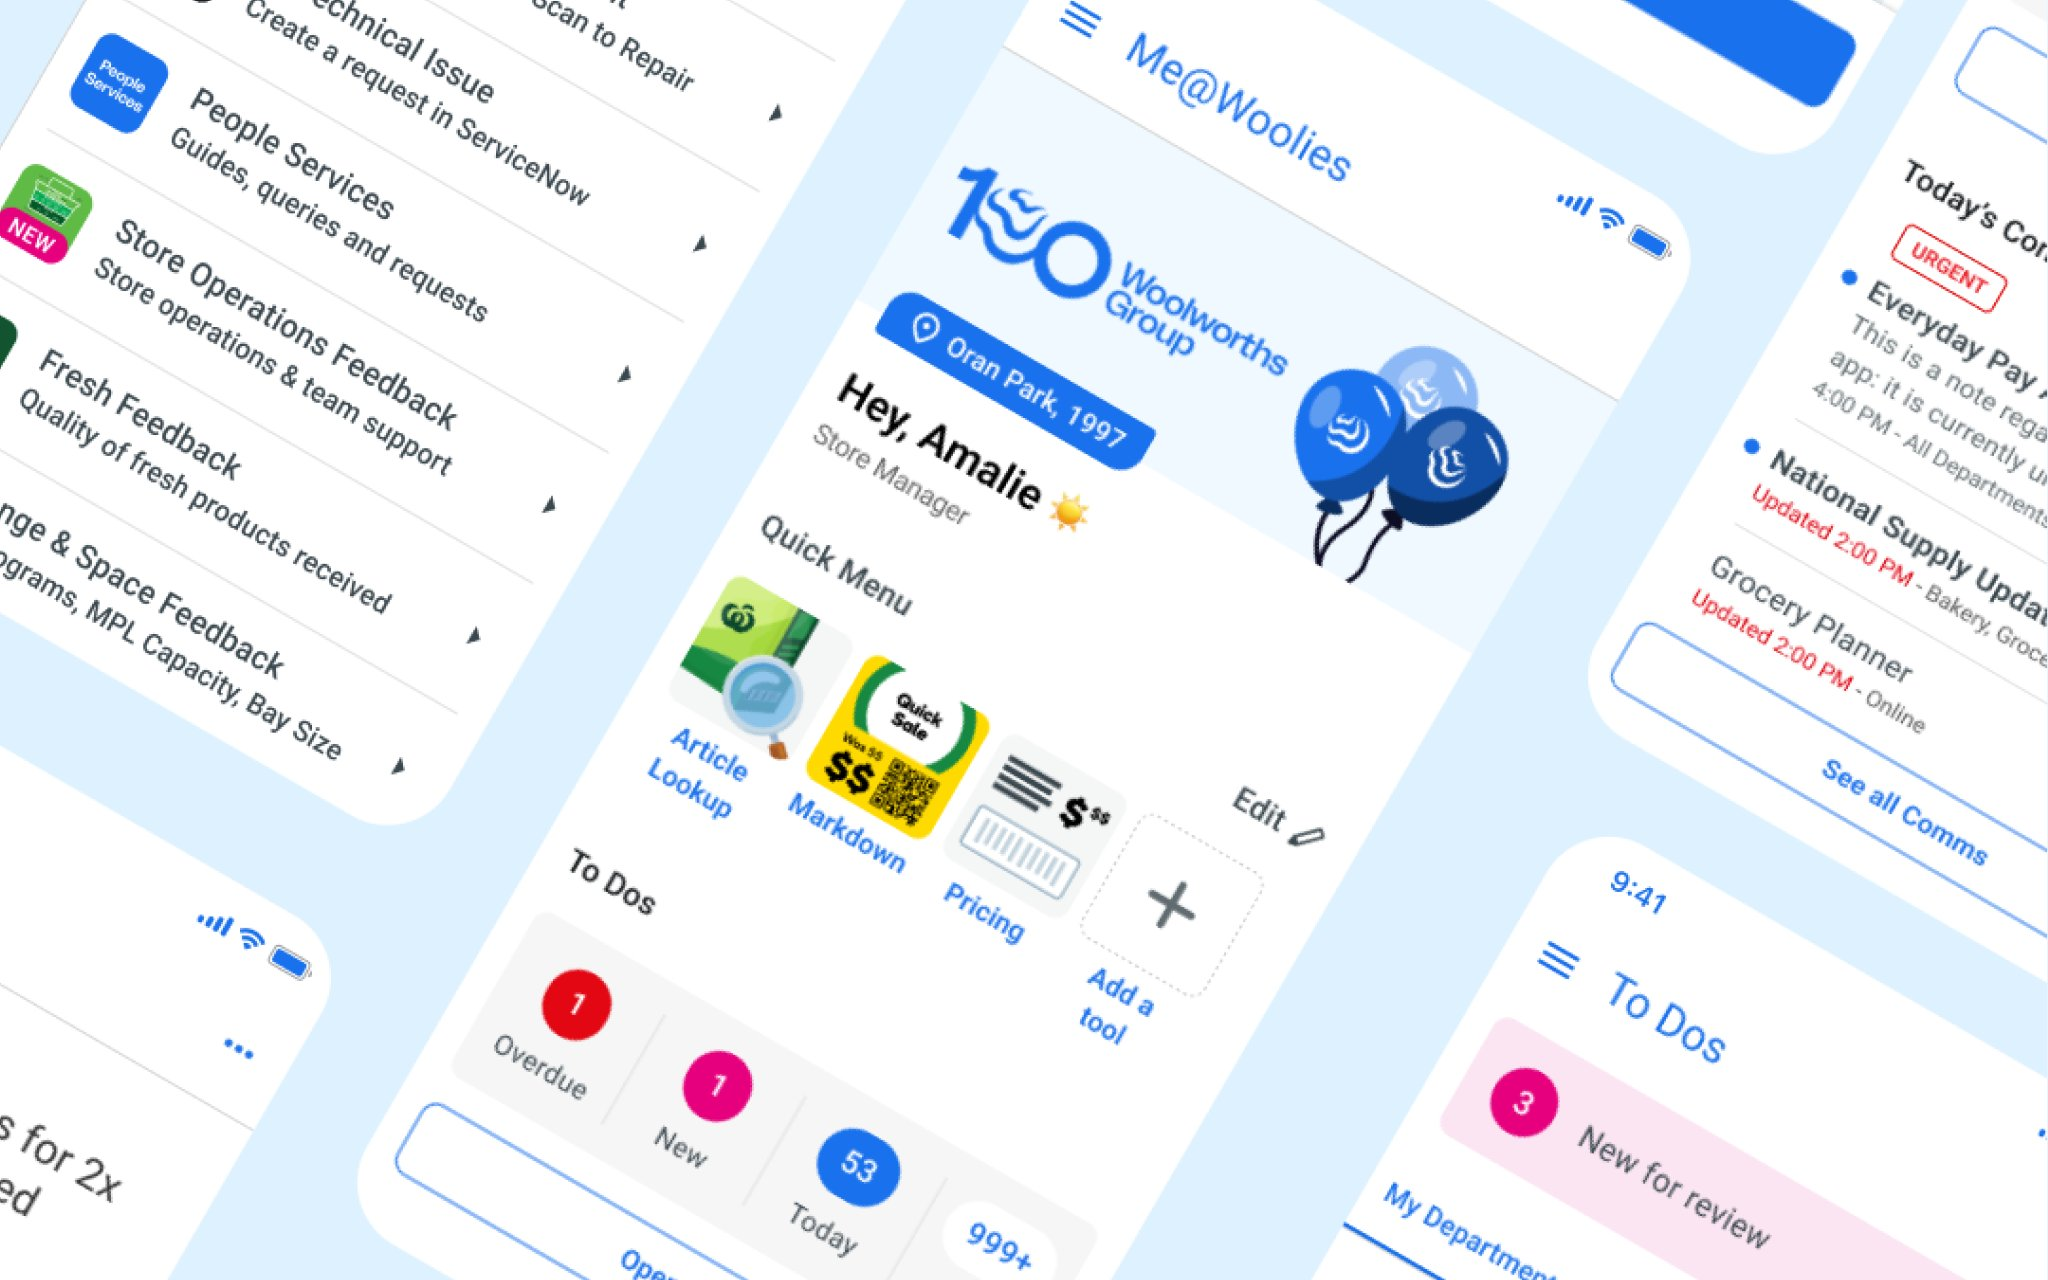
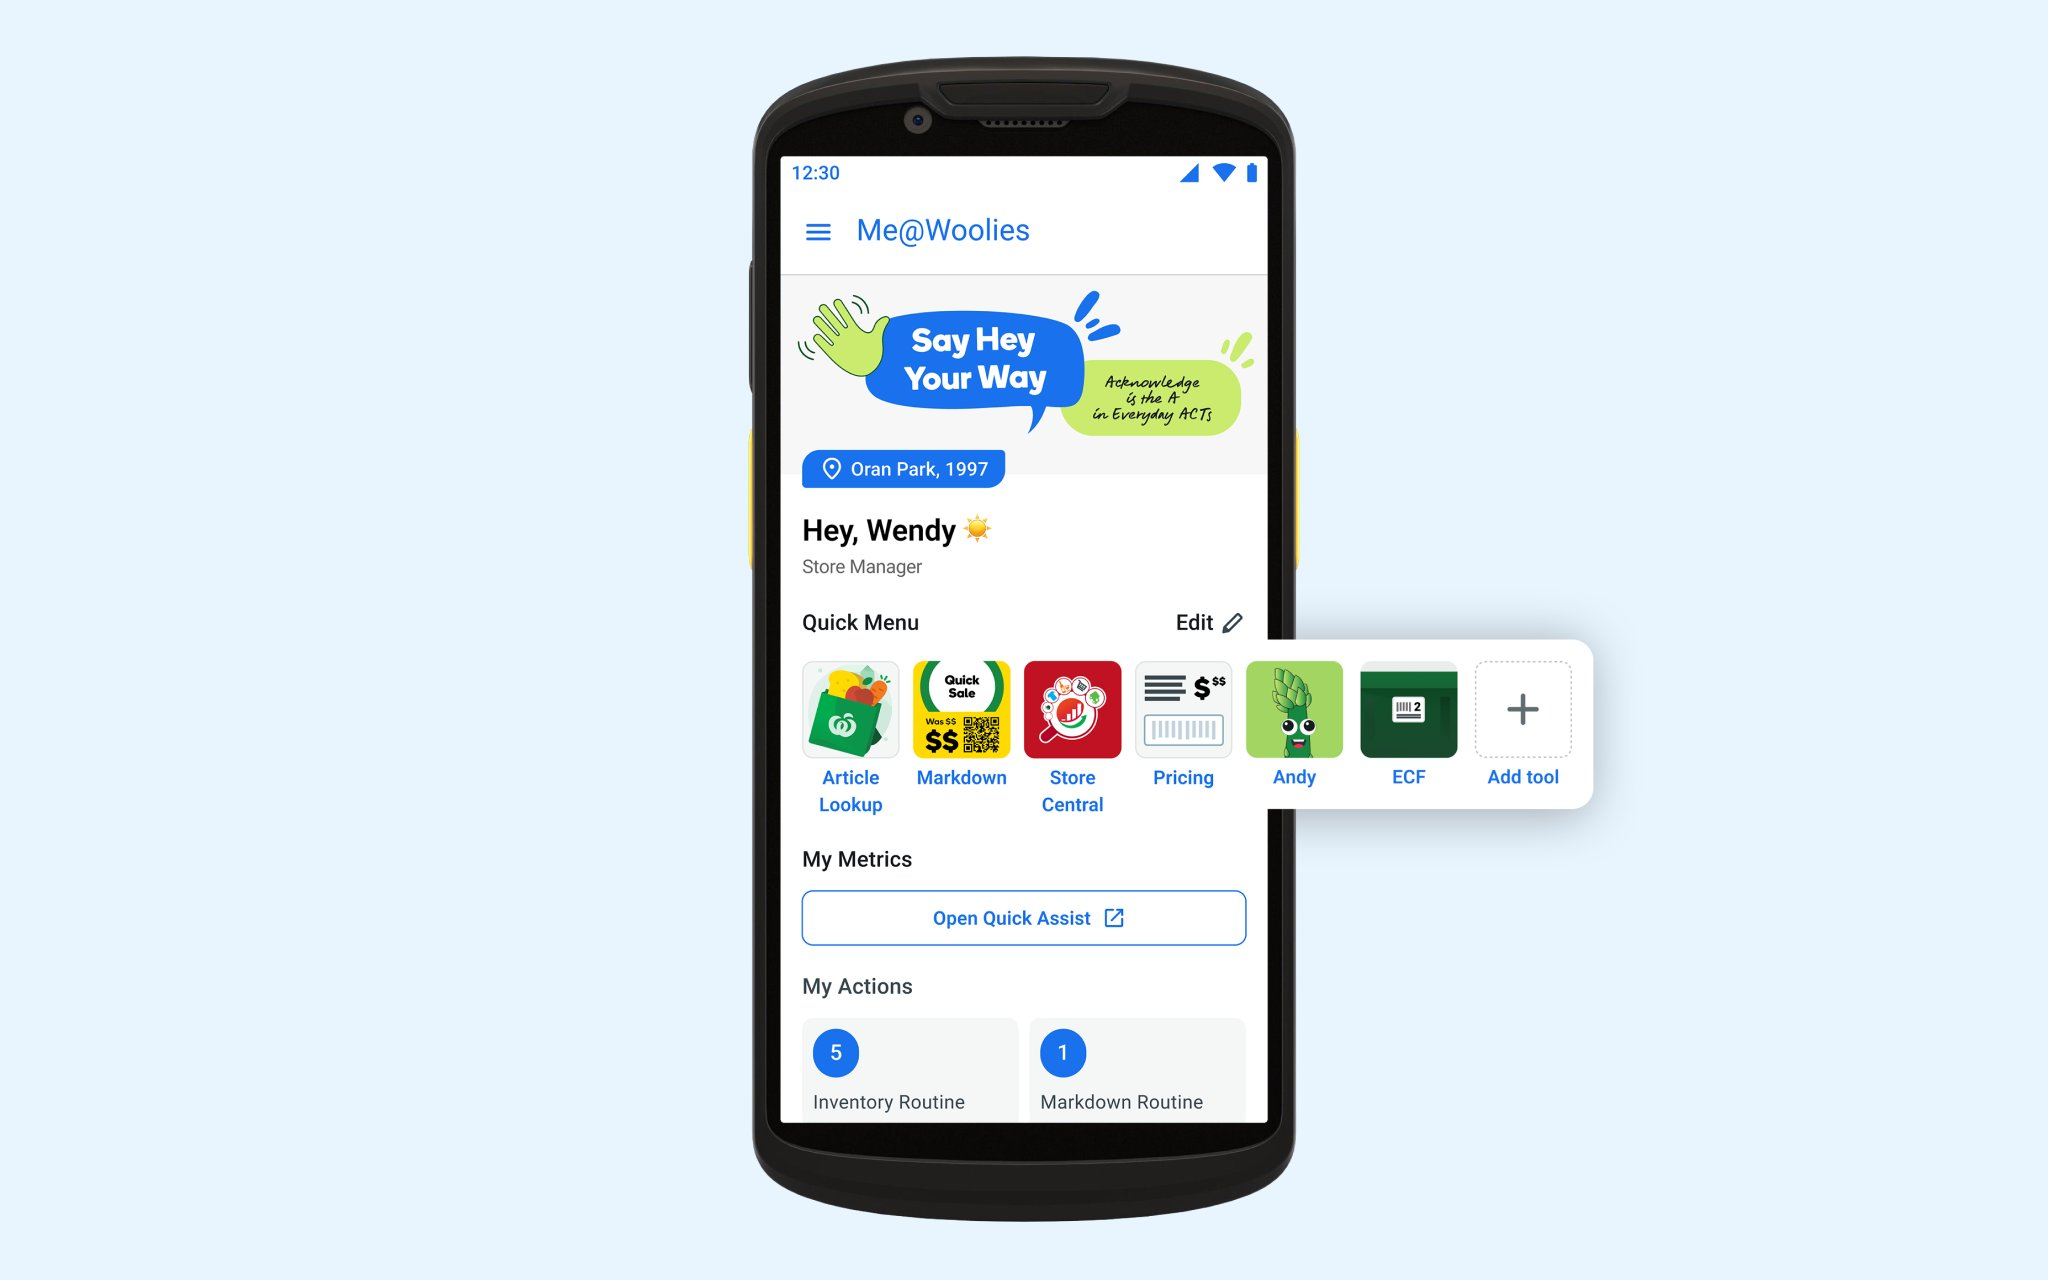
Core Platform hero on a handheld device
Claude-Session: https://claude.ai/code/session_01HoZMpTbMvRVAoChpwWa2w3

diff --git a/portfolio-repo/projects/woolies-core.html b/portfolio-repo/projects/woolies-core.html
@@ -27,7 +27,7 @@
       <h1 class="case-title">Me@Woolies: Core Platform</h1>
       <p class="case-lede">One front door for 130,000 team members who were working across 70+ separate tools.</p>
 
-      <div class="case-cover"><img src="../assets/woolies-platform.jpg" srcset="../assets/woolies-platform-640.jpg 640w, ../assets/woolies-platform-1024.jpg 1024w, ../assets/woolies-platform-1600.jpg 1600w, ../assets/woolies-platform.jpg 2048w" sizes="(max-width: 720px) 100vw, 800px" alt="Tilted Me@Woolies screens: the home screen with the To Dos summary, the app launcher, and the To Dos and comms lists." loading="lazy" decoding="async"></div>
+      <div class="case-cover"><img src="../assets/woolies-platform.jpg" srcset="../assets/woolies-platform-640.jpg 640w, ../assets/woolies-platform-1024.jpg 1024w, ../assets/woolies-platform-1600.jpg 1600w, ../assets/woolies-platform.jpg 2048w" sizes="(max-width: 720px) 100vw, 800px" alt="The Me@Woolies home screen on a handheld device, with the quick menu of tools expanded." loading="lazy" decoding="async"></div>
 
       <div class="meta-grid">
         <div>
